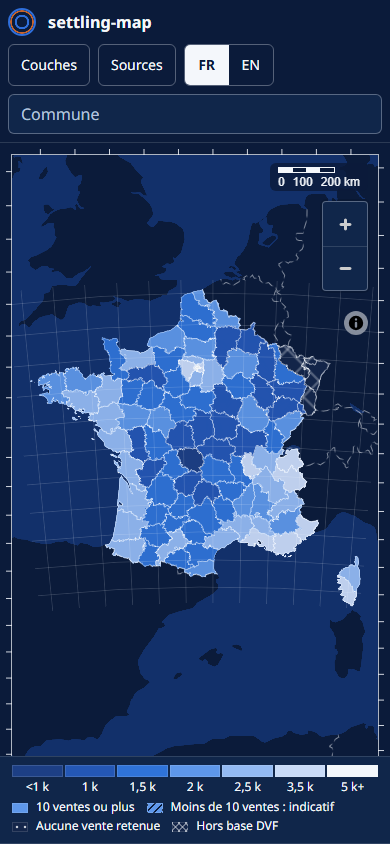
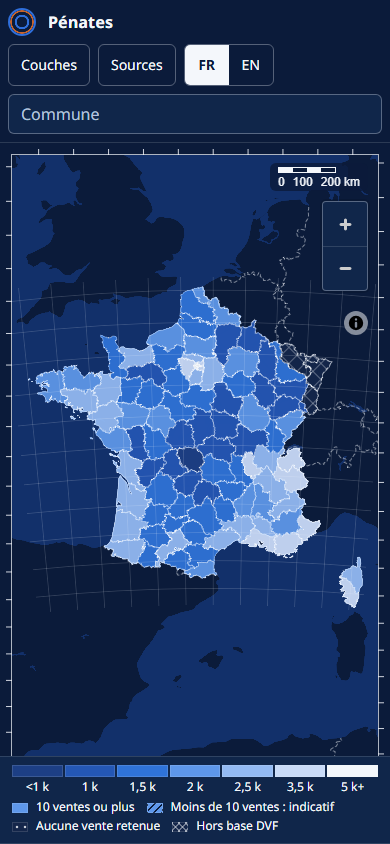
feat(brand): name the product Pénates and make penates.unit42.fr the canonical address
The product is presented as Pénates (web page, repository, domain) while the code still said settling-map. The visible name, page titles, web manifest, SEO and sitemap, JSON-LD, the legal notice, the design documents and the CI check URLs now say Pénates, and the share images and install screenshots are re-captured. The data host (settling-tiles.unit42.fr), the Python package, the R2 bucket, the Pages project name and the storage keys keep their names so nothing deployed or stored breaks.

diff --git a/app/vite/seo.test.ts b/app/vite/seo.test.ts
@@ -36,12 +36,12 @@ function head(lang: Lang) {
 describe('landing head', () => {
   it.each(['fr', 'en'] as const)('has a complete, self-consistent head in %s', (lang) => {
     const html = head(lang)
-    const canonical = lang === 'fr' ? 'https://settling.unit42.fr/' : 'https://settling.unit42.fr/en/'
+    const canonical = lang === 'fr' ? 'https://penates.unit42.fr/' : 'https://penates.unit42.fr/en/'
     expect(html).toContain(`<link rel="canonical" href="${canonical}" />`)
-    expect(html).toContain('hreflang="fr" href="https://settling.unit42.fr/"')
-    expect(html).toContain('hreflang="en" href="https://settling.unit42.fr/en/"')
-    expect(html).toContain('hreflang="x-default" href="https://settling.unit42.fr/"')
-    expect(html).toContain(`property="og:image" content="https://settling.unit42.fr/og-image-${lang}.png"`)
+    expect(html).toContain('hreflang="fr" href="https://penates.unit42.fr/"')
+    expect(html).toContain('hreflang="en" href="https://penates.unit42.fr/en/"')
+    expect(html).toContain('hreflang="x-default" href="https://penates.unit42.fr/"')
+    expect(html).toContain(`property="og:image" content="https://penates.unit42.fr/og-image-${lang}.png"`)
     expect(html).toContain('name="twitter:card" content="summary_large_image"')
     expect(html.match(/<title>/g)).toHaveLength(1)
   })
@@ -80,7 +80,7 @@ describe('documentation pages', () => {
   it('declare language, alternates and breadcrumbs', () => {
     const html = docPageHtml({ lang: 'fr', content: content.fr, page: 'methodology', bodyHtml: '<h1>x</h1>', pages: PAGES, alternatePath: '/en/methodology/', locale })
     expect(html).toContain('<html lang="fr">')
-    expect(html).toContain('hreflang="en" href="https://settling.unit42.fr/en/methodology/"')
+    expect(html).toContain('hreflang="en" href="https://penates.unit42.fr/en/methodology/"')
     expect(html).toContain('"@type":"BreadcrumbList"')
     expect(html).toContain('aria-current="page"')
   })
@@ -90,15 +90,15 @@ describe('sitemap and robots', () => {
   it('lists every page in both languages with alternates', () => {
     const xml = sitemapXml([{ fr: '/', en: '/en/' }, { fr: '/methodologie/', en: '/en/methodology/' }])
     expect(xml.match(/<url>/g)).toHaveLength(4)
-    expect(xml).toContain('<loc>https://settling.unit42.fr/en/methodology/</loc>')
-    expect(xml).toContain('hreflang="x-default" href="https://settling.unit42.fr/methodologie/"')
+    expect(xml).toContain('<loc>https://penates.unit42.fr/en/methodology/</loc>')
+    expect(xml).toContain('hreflang="x-default" href="https://penates.unit42.fr/methodologie/"')
   })
 
   it('allows crawling and points to the sitemap', () => {
     expect(robotsTxt()).toContain('Allow: /')
     expect(robotsTxt()).toContain('Disallow: /admin/')
     expect(robotsTxt()).toContain('Disallow: /api/')
-    expect(robotsTxt()).toContain('Sitemap: https://settling.unit42.fr/sitemap.xml')
+    expect(robotsTxt()).toContain('Sitemap: https://penates.unit42.fr/sitemap.xml')
   })
 })
 

diff --git a/app/vite/seo-content.ts b/app/vite/seo-content.ts
@@ -25,7 +25,7 @@ export interface SeoContent {
   pages: Record<PageId, PageCopy>
 }
 
-export const SITE = 'https://settling.unit42.fr'
+export const SITE = 'https://penates.unit42.fr'
 export const LANGS: readonly Lang[] = ['fr', 'en']
 
 export const landingPath = (lang: Lang) => (lang === 'fr' ? '/' : '/en/')
@@ -58,7 +58,7 @@ export function headTags({ lang, title, description, path, alternates, locale, j
     `<link rel="alternate" hreflang="en" href="${absolute(alternates.en)}" />`,
     `<link rel="alternate" hreflang="x-default" href="${absolute(alternates.fr)}" />`,
     `<meta property="og:type" content="website" />`,
-    `<meta property="og:site_name" content="settling-map" />`,
+    `<meta property="og:site_name" content="Pénates" />`,
     `<meta property="og:title" content="${escapeHtml(title)}" />`,
     `<meta property="og:description" content="${escapeHtml(description)}" />`,
     `<meta property="og:url" content="${absolute(path)}" />`,
@@ -81,12 +81,12 @@ export function landingJsonLd(lang: Lang, content: SeoContent) {
   return {
     '@context': 'https://schema.org',
     '@graph': [
-      { '@type': 'WebSite', '@id': `${SITE}/#website`, url: `${SITE}/`, name: 'settling-map', inLanguage: ['fr', 'en'] },
+      { '@type': 'WebSite', '@id': `${SITE}/#website`, url: `${SITE}/`, name: 'Pénates', inLanguage: ['fr', 'en'] },
       {
         '@type': 'WebApplication',
         '@id': `${absolute(landingPath(lang))}#app`,
         url: absolute(landingPath(lang)),
-        name: 'settling-map',
+        name: 'Pénates',
         description: content.description,
         inLanguage: lang,
         applicationCategory: 'UtilitiesApplication',
@@ -172,7 +172,7 @@ export function docPageHtml({ lang, content, page, bodyHtml, pages, alternatePat
   </head>
   <body>
     <header class="site-header">
-      <a class="brand" href="${landingPath(lang)}">settling-map</a>
+      <a class="brand" href="${landingPath(lang)}">Pénates</a>
       <nav aria-label="${escapeHtml(content.navTitle)}">${nav}</nav>
       <a class="lang" href="${alternatePath}" hreflang="${lang === 'fr' ? 'en' : 'fr'}" lang="${lang === 'fr' ? 'en' : 'fr'}">${escapeHtml(content.languageSwitch)}</a>
     </header>

diff --git a/app/vite/manifest.ts b/app/vite/manifest.ts
@@ -2,7 +2,7 @@ import type { Lang } from './seo-content.ts'
 
 const COPY = {
   fr: {
-    name: "settling-map : prix de l'immobilier en France",
+    name: "Pénates : prix de l'immobilier en France",
     description: "Prix de vente médian au m² par commune en France, avec la fiabilité de chaque chiffre.",
     start_url: '/',
     lang: 'fr',
@@ -12,7 +12,7 @@ const COPY = {
     shortcutUrl: '/en/',
   },
   en: {
-    name: 'settling-map: French property prices',
+    name: 'Pénates: French property prices',
     description: 'Median sale price per m² by commune in France, with how reliable each figure is.',
     start_url: '/en/',
     lang: 'en',
@@ -28,7 +28,7 @@ export function webManifest(lang: Lang) {
   return {
     id: copy.start_url,
     name: copy.name,
-    short_name: 'settling-map',
+    short_name: 'Pénates',
     description: copy.description,
     lang: copy.lang,
     dir: 'ltr',

diff --git a/app/functions/_lib/edge.ts b/app/functions/_lib/edge.ts
@@ -63,7 +63,7 @@ export async function fetchEdge(env: EdgeEnv, days: number, fetcher: typeof fetc
     const response = await fetcher('https://api.cloudflare.com/client/v4/graphql', {
       method: 'POST',
       headers: { authorization: `Bearer ${env.CF_ANALYTICS_TOKEN}`, 'content-type': 'application/json' },
-      body: JSON.stringify({ query: QUERY, variables: { zone: env.CF_ZONE_ID, from, to: now.toISOString(), host: env.SITE_HOST ?? 'settling.unit42.fr' } }),
+      body: JSON.stringify({ query: QUERY, variables: { zone: env.CF_ZONE_ID, from, to: now.toISOString(), host: env.SITE_HOST ?? 'penates.unit42.fr' } }),
     })
     if (!response.ok) return { available: false, reason: `Cloudflare answered ${response.status}.` }
     const body = (await response.json()) as { data?: { viewer?: { zones?: Parameters<typeof summariseEdge>[0][] } }; errors?: { message: string }[] }

diff --git a/app/functions/_lib/lib.test.ts b/app/functions/_lib/lib.test.ts
@@ -105,7 +105,7 @@ describe('Cloudflare Access verification', () => {
     return `${head}.${body}.${bytesToB64Url(signature)}`
   }
 
-  const requestWith = (jwt: string | null) => new Request('https://settling.unit42.fr/api/admin/stats', { headers: jwt ? { 'Cf-Access-Jwt-Assertion': jwt } : {} })
+  const requestWith = (jwt: string | null) => new Request('https://penates.unit42.fr/api/admin/stats', { headers: jwt ? { 'Cf-Access-Jwt-Assertion': jwt } : {} })
   const good = { aud: [audience], iss: `https://${team}`, exp: Math.floor(Date.now() / 1000) + 600, email: 'owner@example.com' }
   const env = { ACCESS_TEAM_DOMAIN: team, ACCESS_AUD: audience }
 

diff --git a/app/en/index.html b/app/en/index.html
@@ -6,7 +6,7 @@
     <meta name="theme-color" content="#0B1B3A" />
     <meta name="color-scheme" content="dark" />
     <meta name="mobile-web-app-capable" content="yes" />
-    <meta name="apple-mobile-web-app-title" content="settling-map" />
+    <meta name="apple-mobile-web-app-title" content="Pénates" />
     <meta name="apple-mobile-web-app-status-bar-style" content="black" />
     <link rel="icon" href="/favicon.ico" sizes="48x48" />
     <link rel="icon" href="/favicon.svg" type="image/svg+xml" />

diff --git a/app/index.html b/app/index.html
@@ -6,7 +6,7 @@
     <meta name="theme-color" content="#0B1B3A" />
     <meta name="color-scheme" content="dark" />
     <meta name="mobile-web-app-capable" content="yes" />
-    <meta name="apple-mobile-web-app-title" content="settling-map" />
+    <meta name="apple-mobile-web-app-title" content="Pénates" />
     <meta name="apple-mobile-web-app-status-bar-style" content="black" />
     <link rel="icon" href="/favicon.ico" sizes="48x48" />
     <link rel="icon" href="/favicon.svg" type="image/svg+xml" />

diff --git a/app/src/ui/TopBar.tsx b/app/src/ui/TopBar.tsx
@@ -27,7 +27,7 @@ export function TopBar() {
           {t('pwa.offlineBadge')}
         </p>
       )}
-      <nav className="topbar__actions" aria-label="settling-map">
+      <nav className="topbar__actions" aria-label="Pénates">
         <button type="button" className="button button--layers" aria-expanded={layersOpen} onClick={() => setLayersOpen(!layersOpen)}>
           {t('layers.title')}
         </button>

diff --git a/app/admin/index.html b/app/admin/index.html
@@ -7,7 +7,7 @@
     <meta name="theme-color" content="#0B1B3A" />
     <meta name="color-scheme" content="dark" />
     <link rel="icon" href="/favicon.svg" type="image/svg+xml" />
-    <title>Statistiques · settling-map</title>
+    <title>Statistiques · Pénates</title>
   </head>
   <body>
     <div id="root"></div>

diff --git a/app/e2e/seo-pwa.spec.ts b/app/e2e/seo-pwa.spec.ts
@@ -1,7 +1,7 @@
 import { expect, test, type Page } from '@playwright/test'
 import { mapReady } from './helpers'
 
-const SITE = 'https://settling.unit42.fr'
+const SITE = 'https://penates.unit42.fr'
 
 async function rawHtml(page: Page, path: string): Promise<string> {
   const response = await page.request.get(path)

diff --git a/docs/legal.fr.md b/docs/legal.fr.md
@@ -1,10 +1,10 @@
 # Mentions légales et confidentialité
 
-Dernière mise à jour : 13 novembre 2026. Ces informations concernent settling-map (settling.unit42.fr). Les mentions légales du domaine principal figurent sur [unit42.fr/legal-notice](https://unit42.fr/legal-notice).
+Dernière mise à jour : 13 novembre 2026. Ces informations concernent Pénates (penates.unit42.fr). Les mentions légales du domaine principal figurent sur [unit42.fr/legal-notice](https://unit42.fr/legal-notice).
 
 ## Éditeur
 
-settling-map est édité par **Nicolas Opal**, à titre individuel. Directeur de la publication : Nicolas Opal.
+Pénates est édité par **Nicolas Opal**, à titre individuel. Directeur de la publication : Nicolas Opal.
 
 Contact : [n.opal@unit42.fr](mailto:n.opal@unit42.fr)
 
@@ -18,11 +18,11 @@ Les données utilisées, leurs licences et les mentions de crédit à respecter 
 
 ## Propriété intellectuelle
 
-Le code de settling-map est publié sous licence MIT. Les données restent soumises à leurs licences d'origine (Licence Ouverte v2.0 pour l'essentiel, ODbL pour le fond de carte OpenStreetMap). Les noms et marques cités appartiennent à leurs titulaires.
+Le code de Pénates est publié sous licence MIT. Les données restent soumises à leurs licences d'origine (Licence Ouverte v2.0 pour l'essentiel, ODbL pour le fond de carte OpenStreetMap). Les noms et marques cités appartiennent à leurs titulaires.
 
 ## Données personnelles
 
-settling-map n'a ni compte utilisateur ni cookie. Il compte de façon anonyme l'utilisation du site, pour savoir ce qui sert et ce qui ne fonctionne pas :
+Pénates n'a ni compte utilisateur ni cookie. Il compte de façon anonyme l'utilisation du site, pour savoir ce qui sert et ce qui ne fonctionne pas :
 
 - **Ce qui est compté** : pages vues, langue, type d'appareil (téléphone ou ordinateur), site d'où vient la visite (nom de domaine seulement, jamais l'adresse complète), pays (déduit par Cloudflare, jamais l'adresse IP), nom du thème de couleur et du filtre utilisés (jamais les valeurs choisies), nombre de communes sélectionnées et de recherches (jamais le texte saisi), installations de l'application, cartes enregistrées hors ligne, erreurs de chargement de la carte, et la vitesse de chargement ressentie (bonne, moyenne ou mauvaise).
 - **Comment** : chaque événement ajoute un au total du jour dans une base Cloudflare D1. Il n'y a aucun identifiant, aucun cookie, aucune adresse IP enregistrée et aucune ligne par visiteur ; ces totaux ne permettent pas de reconnaître une personne.
@@ -38,7 +38,7 @@ Par ailleurs, utiliser la carte fait transiter des données techniques vers les 
 
 Le contenu de l'adresse après le signe # (position de la carte, commune sélectionnée, thème, calques, filtres) reste dans votre navigateur : il n'est pas envoyé aux serveurs. Il est repris dans les liens que vous choisissez de partager.
 
-**Base légale** : intérêt légitime à fournir et sécuriser le site (RGPD, art. 6.1.f). **Durée de conservation** : selon les politiques de conservation de Cloudflare, d'OpenFreeMap et de l'API Géo ; settling-map ne conserve rien de son côté.
+**Base légale** : intérêt légitime à fournir et sécuriser le site (RGPD, art. 6.1.f). **Durée de conservation** : selon les politiques de conservation de Cloudflare, d'OpenFreeMap et de l'API Géo ; Pénates ne conserve rien de son côté.
 
 La politique de confidentialité du domaine principal, qui couvre les autres pages de unit42.fr, est sur [unit42.fr/privacy](https://unit42.fr/privacy).
 
@@ -48,4 +48,4 @@ Le site ne dépose aucun cookie. Il ne garde de lui-même dans votre navigateur 
 
 ## Vos droits
 
-Vous pouvez demander l'accès, la rectification ou l'effacement de données vous concernant, vous opposer à un traitement ou en demander la limitation en écrivant à [n.opal@unit42.fr](mailto:n.opal@unit42.fr). Comme settling-map ne conserve pas de données personnelles de son côté, la plupart de ces demandes relèvent des services cités ci-dessus. Si vous estimez que vos droits ne sont pas respectés, vous pouvez saisir la CNIL ([cnil.fr](https://www.cnil.fr)) ou l'autorité du pays de l'UE où vous résidez.
+Vous pouvez demander l'accès, la rectification ou l'effacement de données vous concernant, vous opposer à un traitement ou en demander la limitation en écrivant à [n.opal@unit42.fr](mailto:n.opal@unit42.fr). Comme Pénates ne conserve pas de données personnelles de son côté, la plupart de ces demandes relèvent des services cités ci-dessus. Si vous estimez que vos droits ne sont pas respectés, vous pouvez saisir la CNIL ([cnil.fr](https://www.cnil.fr)) ou l'autorité du pays de l'UE où vous résidez.

diff --git a/docs/legal.md b/docs/legal.md
@@ -1,10 +1,10 @@
 # Legal notice and privacy
 
-Last updated: November 13, 2026. This covers settling-map (settling.unit42.fr). The legal notice of the main domain is at [unit42.fr/legal-notice](https://unit42.fr/legal-notice).
+Last updated: November 13, 2026. This covers Pénates (penates.unit42.fr). The legal notice of the main domain is at [unit42.fr/legal-notice](https://unit42.fr/legal-notice).
 
 ## Publisher
 
-settling-map is published by **Nicolas Opal**, as an individual. Publication director: Nicolas Opal.
+Pénates is published by **Nicolas Opal**, as an individual. Publication director: Nicolas Opal.
 
 Contact: [n.opal@unit42.fr](mailto:n.opal@unit42.fr)
 
@@ -18,11 +18,11 @@ The data used, its licences and the credits to display are detailed on the [Sour
 
 ## Intellectual property
 
-The settling-map code is published under the MIT licence. The data remains under its original licences (mostly Licence Ouverte v2.0, and ODbL for the OpenStreetMap basemap). Names and trademarks mentioned belong to their owners.
+The Pénates code is published under the MIT licence. The data remains under its original licences (mostly Licence Ouverte v2.0, and ODbL for the OpenStreetMap basemap). Names and trademarks mentioned belong to their owners.
 
 ## Personal data
 
-settling-map has no user accounts and no cookies. It counts anonymously how the site is used, to learn what is used and what breaks:
+Pénates has no user accounts and no cookies. It counts anonymously how the site is used, to learn what is used and what breaks:
 
 - **What is counted**: page views, language, device type (phone or computer), the site a visit came from (domain name only, never the full address), country (worked out by Cloudflare, never the IP address), the name of the colour theme and of the filter used (never the values chosen), the number of communes selected and of searches (never the text typed), app installs, maps saved offline, map loading errors, and perceived loading speed (good, average or poor).
 - **How**: each event adds one to the day's total in a Cloudflare D1 database. There is no identifier, no cookie, no IP address stored and no row per visitor; these totals cannot be used to recognise a person.
@@ -38,7 +38,7 @@ Using the map also sends technical data to the following services, as with any w
 
 What follows the # sign in the address (map position, selected commune, theme, overlays, filters) stays in your browser: it is not sent to servers. It is included in links you choose to share.
 
-**Legal basis**: legitimate interest in providing and securing the site (GDPR art. 6(1)(f)). **Retention**: according to the retention policies of Cloudflare, OpenFreeMap and the Geo API; settling-map keeps nothing itself.
+**Legal basis**: legitimate interest in providing and securing the site (GDPR art. 6(1)(f)). **Retention**: according to the retention policies of Cloudflare, OpenFreeMap and the Geo API; Pénates keeps nothing itself.
 
 The privacy policy of the main domain, which covers the other pages of unit42.fr, is at [unit42.fr/privacy](https://unit42.fr/privacy).
 
@@ -48,4 +48,4 @@ The site sets no cookies. The only things it keeps in your browser by itself are
 
 ## Your rights
 
-You can ask for access to, correction or erasure of data about you, object to processing or ask for it to be restricted, by writing to [n.opal@unit42.fr](mailto:n.opal@unit42.fr). Because settling-map keeps no personal data itself, most such requests concern the services named above. If you think your rights are not respected, you can complain to the CNIL ([cnil.fr](https://www.cnil.fr)) or to the authority of the EU country where you live.
+You can ask for access to, correction or erasure of data about you, object to processing or ask for it to be restricted, by writing to [n.opal@unit42.fr](mailto:n.opal@unit42.fr). Because Pénates keeps no personal data itself, most such requests concern the services named above. If you think your rights are not respected, you can complain to the CNIL ([cnil.fr](https://www.cnil.fr)) or to the authority of the EU country where you live.
